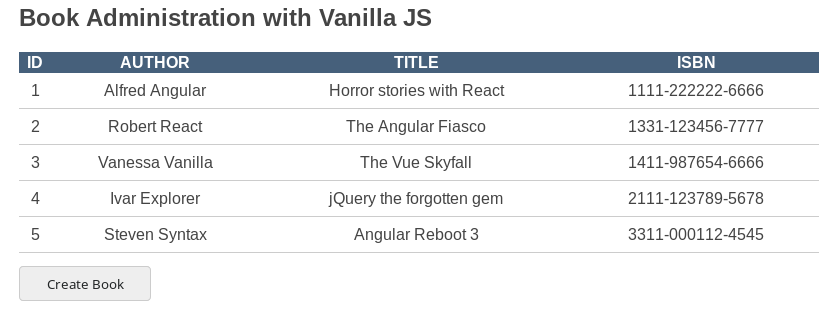
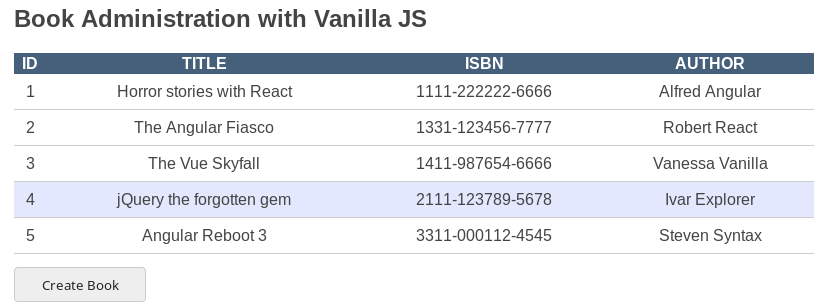
removed trait, and refactored code

Changed region(s): [[0.0, 0.1461, 0.9964, 0.8766], [0.0, 0.0292, 0.5133, 0.0877], [0.0302, 0.9058, 0.1812, 0.9935]]

diff --git a/example2/js/application.js b/example2/js/application.js
@@ -1,45 +1,10 @@
 'use strict';
 
-function Trait (methods) {
-	this.traits = [methods];
-}
+class EventSubscription{
 
-// https://stackoverflow.com/questions/1978770/traits-in-javascript
-Trait.prototype = {
-
-	constructor: Trait,
-
-	uses: function (trait) {
-		this.traits = this.traits.concat(trait.traits);
-		return this;
-	},
-
-	useBy: function (obj) {
-		for(let i = 0; i < this.traits.length; ++i) {
-			let methods = this.traits[i];
-			for (let prop in methods) {
-				if (methods.hasOwnProperty(prop)) {
-					obj[prop] = obj[prop] || methods[prop];
-				}
-			}
-		}
+	constructor(){
+		this.subscribers = [];
 	}
-
-};
-
-/*
-Trait.unimplemented = function (obj, traitName) {
-
-	if (obj === undefined || traitName === undefined) {
-		throw new Error ("Unimplemented trait property.");
-	}
-	throw new Error (traitName + " is not implemented for " + obj);
-
-};*/
-
-const EventSubscriptionTrait = new Trait ({
-
-	changeSubscribers: [],
 
 	/**
 	 * Subscribe for changes
@@ -48,9 +13,9 @@ const EventSubscriptionTrait = new Trait ({
 	 * @params Function fn
 	 * @return null
 	 */
-	subscribeForChanges: function (fn) {
-		this.changeSubscribers.push(fn);
-	},
+	subscribe(fn) {
+		this.subscribers.push(fn);
+	}
 
 	/**
 	 * Unsubscribe from being notified when this model changes.
@@ -58,26 +23,26 @@ const EventSubscriptionTrait = new Trait ({
 	 * @params Function fn
 	 * @return null
 	 */
-	unsubscribeChanges: function (fn) {
-		this.changeSubscribers = this.changeSubscribers.filter(
+	unsubscribe(fn) {
+		this.subscribers = this.subscribers.filter(
 			function(item){
 				return item !== fn;
 			}
 		);
-	},
+	}
 
 	/**
 	 * Notify subscribers
 	 *
 	 * @return null
 	 */
-	notifyChangeSubscribers: function() {
-		for(let i = 0; i < this.changeSubscribers.length; i++){
-			this.changeSubscribers[i]();
+	notifySubscribers() {
+		for(let i = 0; i < this.subscribers.length; i++){
+			this.subscribers[i]();
 		}
 	}
 
-});
+}
 
 class Author{
 
@@ -106,15 +71,16 @@ class Book{
 	}
 
 	static getFields(){
-		return ['id', 'author', 'title', 'isbn'];
+		return ['id', 'title', 'isbn', 'author'];
 	}
 
 }
 
-class BooksCollection{
+class BooksCollection extends EventSubscription{
 
-	constructor(){
-		this.books = [];
+	constructor(obj){
+		super();
+		this.books = obj.books || [];
 	}
 
 	getBook(id){
@@ -127,7 +93,7 @@ class BooksCollection{
 
 	addBook(book){
 		this.books.push(book);
-		this.notifyChangeSubscribers();
+		this.notifySubscribers();
 	}
 
 	deleteBook(book){
@@ -137,16 +103,15 @@ class BooksCollection{
 				break;
 			}
 		}
-		this.notifyChangeSubscribers();
+		this.notifySubscribers();
 	}
 
 	updateBook(obj){
 		const book = this.getBook(obj.id);
 		book.updateProperties(obj);
-		this.notifyChangeSubscribers();
+		this.notifySubscribers();
 	}
 }
-EventSubscriptionTrait.useBy(BooksCollection.prototype);
 
 class BooksTable{
 
@@ -159,11 +124,8 @@ class BooksTable{
 	}
 
 	updateProperties(obj) {
-		this.booksCollection = new BooksCollection();
-		for(let i = 0; i < obj.books.length; i++){
-			this.booksCollection.addBook(obj.books[i]);
-		}
-		this.booksCollection.subscribeForChanges(()=>{
+		this.booksCollection = new BooksCollection(obj);
+		this.booksCollection.subscribe(()=>{
 			this.render();
 		});
 	}
@@ -214,9 +176,9 @@ class BooksTable{
 			${this.booksCollection.books.map(book => `
 				<tr>
 					<td>${book.id}</td>
-					<td>${book.author.name}</td>
 					<td>${book.title}</td>
 					<td>${book.isbn}</td>
+					<td>${book.author.name}</td>
 				</tr>
 			`).join('')}
 		`;
@@ -368,7 +330,7 @@ class CreateBookFormForTable extends CreateBookForm{
 	submit(){
 		if(this.validate()){
 			let book = new Book({
-				id: this.booksCollection.length + 2,
+				id: this.booksCollection.books.length + 1,
 				title: this.formElement.querySelector('input[name="title"]').value,
 				author: new Author({
 					name: this.formElement.querySelector('input[name="author.name"]').value

diff --git a/example1/js/application.js b/example1/js/application.js
@@ -30,7 +30,7 @@ class Book{
 	}
 
 	static getFields(){
-		return ['id', 'author', 'title', 'isbn'];
+		return ['id', 'title', 'isbn', 'author'];
 	}
 
 }
@@ -70,12 +70,12 @@ class BooksTable{
 
 	renderBody(){
 		this.tableBodyElement.innerHTML = `
-			${this.books.map(book => `
+			${this.booksCollection.books.map(book => `
 				<tr>
 					<td>${book.id}</td>
-					<td>${book.author.name}</td>
 					<td>${book.title}</td>
 					<td>${book.isbn}</td>
+					<td>${book.author.name}</td>
 				</tr>
 			`).join('')}
 		`;
